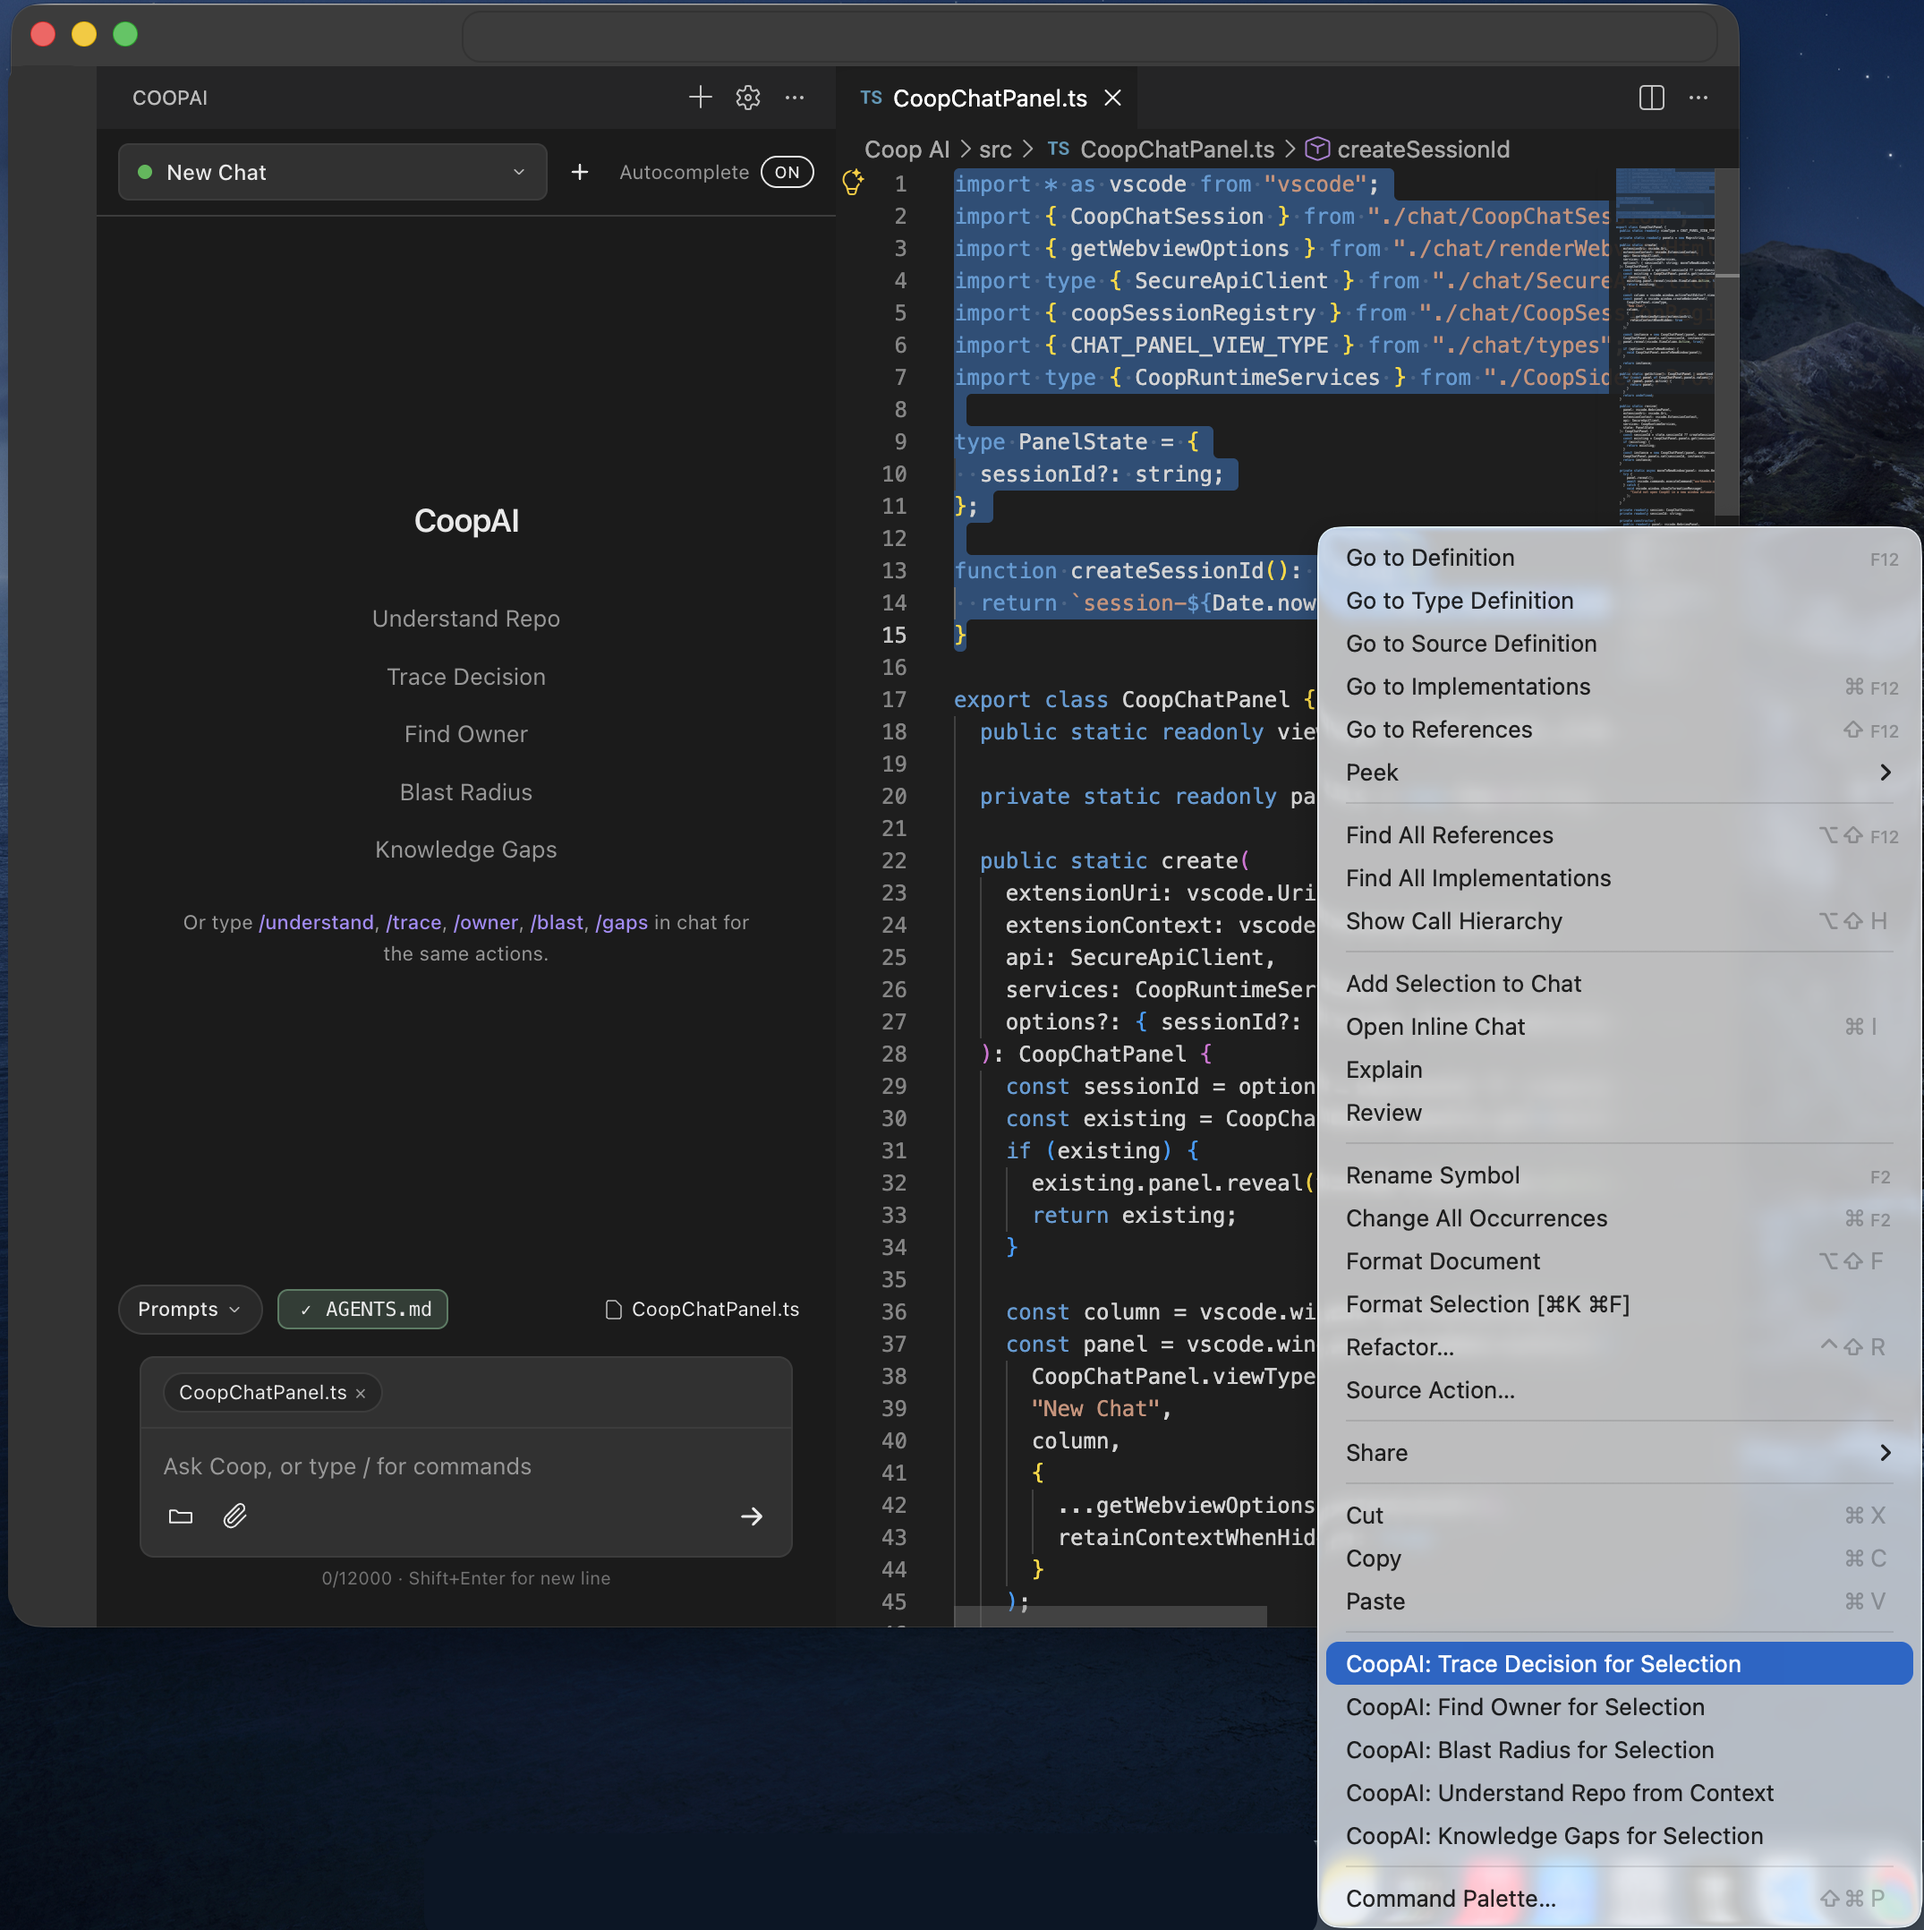
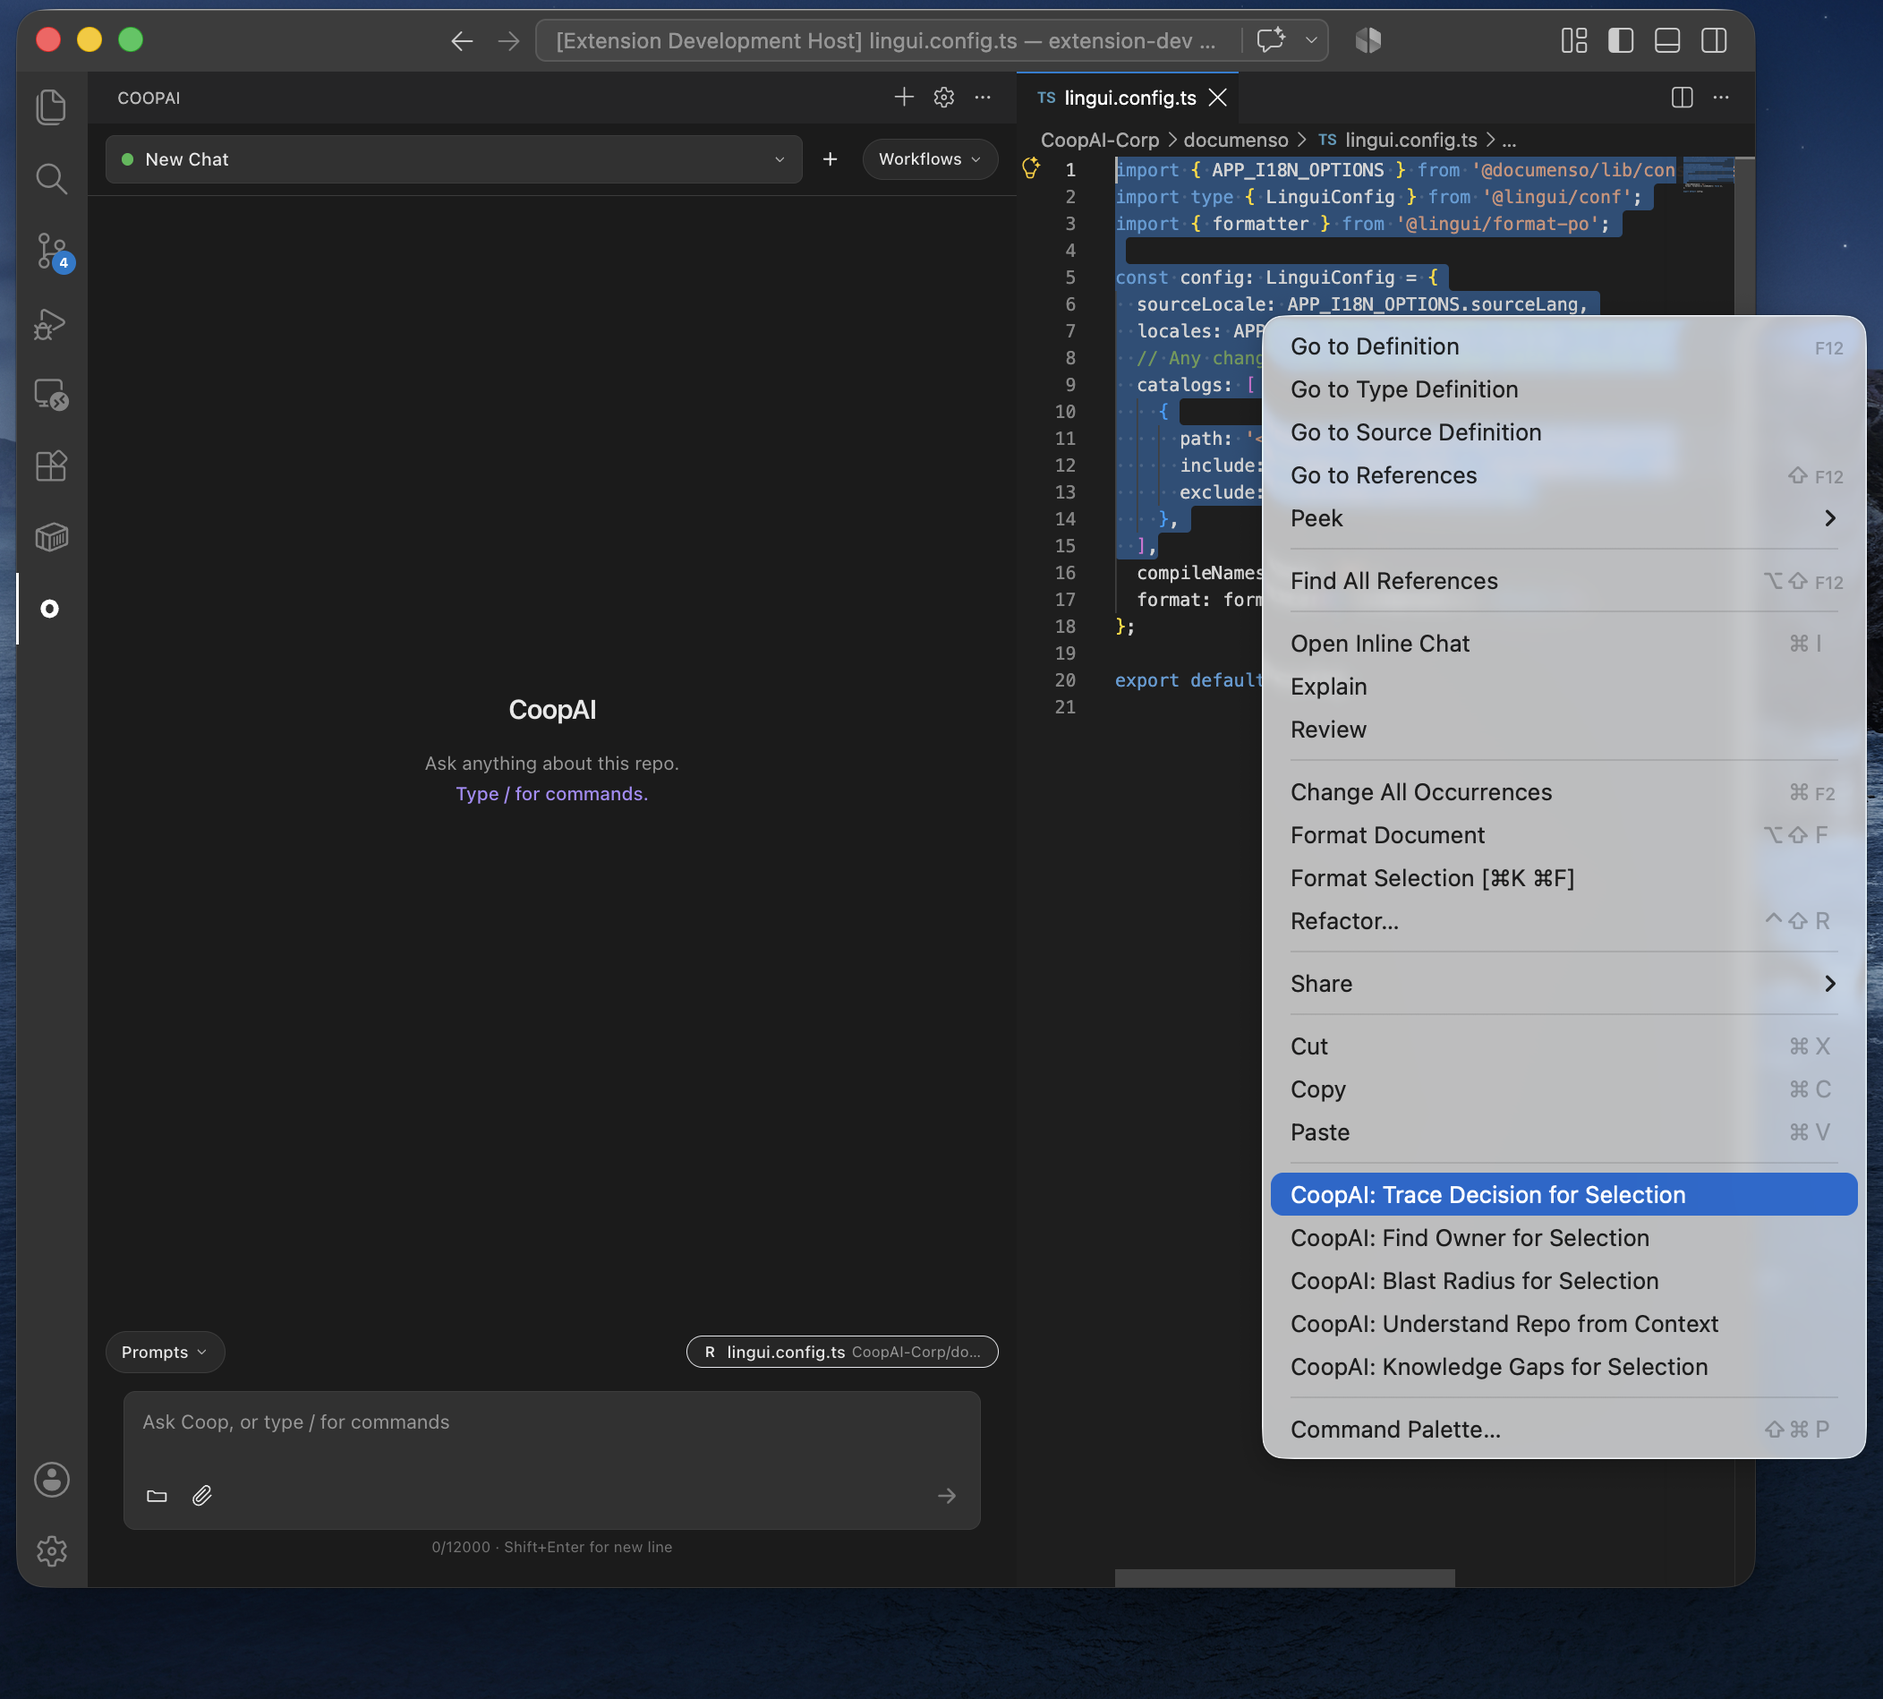
Update docs screenshots and copy for the Workflows header.
Refresh Owner’s Manual, Getting Started, and FAQ to match the new empty chat homepage and header Workflows menu.

diff --git a/website/content/manual/index.md b/website/content/manual/index.md
@@ -1,7 +1,7 @@
 ---
 title: "CoopAI Owner's Manual"
-description: "Install, configure, and use CoopAI in VS Code — quick actions, prompt library, and team conventions."
-lastUpdated: "2026-07-23"
+description: "Install, configure, and use CoopAI in VS Code — Workflows, prompt library, and team conventions."
+lastUpdated: "2026-08-12"
 ---
 
 Congratulations on choosing CoopAI. This manual helps you get the most out of it — from your first chat to team-wide prompt libraries.
@@ -247,7 +247,7 @@ See [SAML SSO troubleshooting — Known limits](/docs/saml-sso-troubleshooting#k
 
 ### Open the Coop sidebar
 
-The Coop sidebar lives in the VS Code activity bar. When chat is empty, you'll see the **Quick Action** grid and a hint to type `/understand`, `/trace`, `/owner`, `/blast`, or `/gaps`.
+The Coop sidebar lives in the VS Code activity bar. When chat is empty, you'll see the **CoopAI** wordmark with a short hint to ask about the repo or type `/` for commands. Structured workflows (Understand Repo, Trace Decision, and the rest) live in the **Workflows** menu in the chat header — not as a list under the logo.
 
 ### Start a new chat
 
@@ -255,7 +255,8 @@ Use the chat header at the top of the sidebar:
 
 | Control | Action |
 | --- | --- |
-| **+** (New chat) | Start a fresh thread — empty composer and quick-action grid |
+| **+** (New chat) | Start a fresh thread — empty composer and homepage |
+| **Workflows** | Run Understand Repo, Trace Decision, Find Owner, Blast Radius, or Knowledge Gaps (same path as slash commands) |
 | **Thread title** dropdown | Switch between saved threads from this workspace |
 
 <!-- figures -->
@@ -348,7 +349,7 @@ Open **CoopAI Settings** from the gear icon in the sidebar title bar (opens a de
 | **Indexing** | Lightning Mode status and indexed repos (all plans; free capped at 3) |
 | **Preferences** | Assigned models, prompt library, identity links, timezone |
 
-Right-click any selection in the editor for **Trace Decision**, **Find Owner**, **Blast Radius**, or **Knowledge Gaps**. **Understand Repo** is repo-wide only — use the grid or `/understand` after **Use repo** in the Remote workspace picker.
+Right-click any selection in the editor for **Trace Decision**, **Find Owner**, **Blast Radius**, or **Knowledge Gaps**. **Understand Repo** is repo-wide only — use **Workflows → Understand Repo** or `/understand` after **Use repo** in the Remote workspace picker.
 
 ### Model assignments
 
@@ -424,7 +425,7 @@ Full guide: [Edit mode](/docs/edit-mode).
 
 ## Quick Actions
 
-Run quick actions from the **sidebar grid**, **slash commands** in chat (`/understand`, `/trace`, `/owner`, …), or the **editor context menu**. Right-click a selection for **Trace Decision**, **Find Owner**, **Blast Radius**, or **Knowledge Gaps** — **Understand Repo** is not file-scoped; use the grid or `/understand` after **Use repo**. Structured quick actions and integration slash commands (`/slack`, `/jira`, …) use **Anthropic Claude Sonnet 4.6** — assigned by Coop for reliable, evidence-backed outputs.
+Run quick actions from the **Workflows** menu in the chat header, **slash commands** in chat (`/understand`, `/trace`, `/owner`, …), or the **editor context menu**. Right-click a selection for **Trace Decision**, **Find Owner**, **Blast Radius**, or **Knowledge Gaps** — **Understand Repo** is not file-scoped; use **Workflows → Understand Repo** or `/understand` after **Use repo**. Structured quick actions and integration slash commands (`/slack`, `/jira`, …) use **Anthropic Claude Sonnet 4.6** — assigned by Coop for reliable, evidence-backed outputs.
 
 <!-- figures -->
 ![VS Code editor context menu — CoopAI quick actions for the current selection](/screenshots/docs/context-menu-quick-actions-dark.png)
@@ -446,13 +447,13 @@ Run quick actions from the **sidebar grid**, **slash commands** in chat (`/under
 
 **Requires:** An explicit **Use repo** selection in the **Remote workspace** picker (repository row, not a file). Settings → Workspace owner/repo alone does **not** unlock it.
 
-**Ignores individual files:** If a file chip is active (open editor file or remote file pick), the grid button and `/understand` stay blocked until you click **Use repo** on the repository. This action never deep-dives a single file — use plain chat, **Trace Decision**, or **Blast Radius** for that.
+**Ignores individual files:** If a file chip is active (open editor file or remote file pick), **Workflows → Understand Repo** and `/understand` stay blocked until you click **Use repo** on the repository. This action never deep-dives a single file — use plain chat, **Trace Decision**, or **Blast Radius** for that.
 
 #### Select a repository (then run Understand Repo)
 
 1. **Extension UI** — Open the remote file / repos picker (repos control in the Coop sidebar).
 2. Select the **repository** (not a file) and click **Use repo**.
-3. Success: a repo-only chip (`/RepoName`), **In use** on the picker, and **Understand Repo** / `/understand` available.
+3. Success: a repo-only chip (`/RepoName`), **In use** on the picker, and **Understand Repo** available from **Workflows** or `/understand`.
 
 <!-- figures -->
 ![Remote workspace — open the repos picker to choose a repository](/screenshots/docs/extension-understand-file-picker.png)
@@ -465,7 +466,7 @@ Run quick actions from the **sidebar grid**, **slash commands** in chat (`/under
 
 ![Repo chip active — Understand Repo and /understand available](/screenshots/docs/extension-understand-repo-selected-success-v2.png)
 
-*3 — Repo chipped — run Understand Repo or `/understand`*
+*3 — Repo chipped — run **Workflows → Understand Repo** or `/understand`*
 <!-- /figures -->
 
 **Default prompt:** "Understand this repository's architecture, subsystems, and risks."

diff --git a/website/content/docs/getting-started.md b/website/content/docs/getting-started.md
@@ -52,7 +52,7 @@ Automation API keys are for CI/scripts only — create them in the [admin portal
 ## Step 4 — Ask your first question
 
 <!-- figures -->
-![Coop sidebar in VS Code (light theme) — quick actions and chat composer](/screenshots/docs/extension-sidebar-light.png)
+![Coop sidebar in VS Code (light theme) — chat homepage and composer](/screenshots/docs/extension-sidebar-light.png)
 
 *Light theme*
 
@@ -61,7 +61,7 @@ Automation API keys are for CI/scripts only — create them in the [admin portal
 *Dark theme*
 <!-- /figures -->
 
-Open the Coop icon in the activity bar. Type in the composer or click a quick action.
+Open the Coop icon in the activity bar. Type in the composer, open **Workflows** in the chat header, or type `/` for commands.
 
 1. Open a file in your workspace. Coop shows it as the **L** (local) or **R** (remote) context chip above the composer — see [Active file context chip](/manual#active-file-context-chip).
 2. **Extension UI** — Type a question in the chat composer (plain chat works with a file chip).
@@ -71,7 +71,7 @@ Coop streams an answer grounded in your workspace files and any connected integr
 
 ## Step 5 — Try a quick action
 
-**File-scoped actions** (with a file open): highlight a few lines, then **right-click** the selection. Choose **CoopAI: Trace Decision for Selection** (or **Find Owner**, **Blast Radius**, **Knowledge Gaps**). You can also type `/trace` in the chat composer.
+**File-scoped actions** (with a file open): highlight a few lines, then **right-click** the selection. Choose **CoopAI: Trace Decision for Selection** (or **Find Owner**, **Blast Radius**, **Knowledge Gaps**). You can also open **Workflows** in the chat header, or type `/trace` in the chat composer.
 
 <!-- figures -->
 ![VS Code editor context menu — CoopAI quick actions for the current selection](/screenshots/docs/context-menu-quick-actions-dark.png)
@@ -81,7 +81,7 @@ Coop streams an answer grounded in your workspace files and any connected integr
 
 1. **Extension UI** — Open the remote file / repos picker.
 2. Select the **repository** (not a file) and click **Use repo**.
-3. Click **Understand Repo** in the grid, or type `/understand` (aliases: `/repo`, `/architecture`, `/explain`). Success: repo-only chip and the action enabled.
+3. Open **Workflows → Understand Repo**, or type `/understand` (aliases: `/repo`, `/architecture`, `/explain`). Success: repo-only chip and the action enabled.
 
 <!-- figures -->
 ![Remote workspace — open the repos picker to choose a repository](/screenshots/docs/extension-understand-file-picker.png)
@@ -94,7 +94,7 @@ Coop streams an answer grounded in your workspace files and any connected integr
 
 ![Repo chip active — Understand Repo and /understand available](/screenshots/docs/extension-understand-repo-selected-success-v2.png)
 
-*3 — Repo chipped — run Understand Repo or `/understand`*
+*3 — Repo chipped — run **Workflows → Understand Repo** or `/understand`*
 <!-- /figures -->
 
 Quick actions route to **Claude Sonnet 4.6** for structured, repo-grounded answers. Full detail: [Owner's Manual — Understand Repo](/manual#understand-repo).
@@ -128,7 +128,7 @@ After sign-in, confirm the hot path:
 | **Autocomplete** | Sidebar **Autocomplete On** → type in `.ts` → ghost text → **Tab** accepts |
 | **Edit mode** | `/edit add a comment above this function` → **Apply** / **Undo** on the patch notification |
 | **Quick action (file)** | `/trace` on a selection → structured answer with sources |
-| **Understand Repo** | **Use repo** on the repository → **Understand Repo** or `/understand` → repo-wide overview |
+| **Understand Repo** | **Use repo** on the repository → **Workflows → Understand Repo** or `/understand` → repo-wide overview |
 | **Plain chat** | Composer question → grounded reply (GPT-5 mini) |
 
 More fixes: [Troubleshooting](/docs/troubleshooting).

diff --git a/website/content/docs/faq.md b/website/content/docs/faq.md
@@ -63,7 +63,7 @@ In production mode, **org admins** connect integrations once in the [admin porta
 
 ### What are quick actions?
 
-Five built-in actions: Understand Repo, Trace Decision, Find Owner, Blast Radius, Knowledge Gaps. They route to **Claude Sonnet 4.6** in production.
+Five built-in actions: Understand Repo, Trace Decision, Find Owner, Blast Radius, Knowledge Gaps. Run them from the **Workflows** menu in the chat header, slash commands (`/understand`, `/trace`, …), or the editor context menu. They route to **Claude Sonnet 4.6** in production.
 
 **Understand Repo** / `/understand` is **repo-wide only** — click **Use repo** on the repository in the Remote workspace picker. A file chip blocks it. The other actions use a file selection and/or **Use repo** as documented in the [Owner's Manual](/manual#quick-actions). See also [Model assignments](/docs/model-assignments).
 
